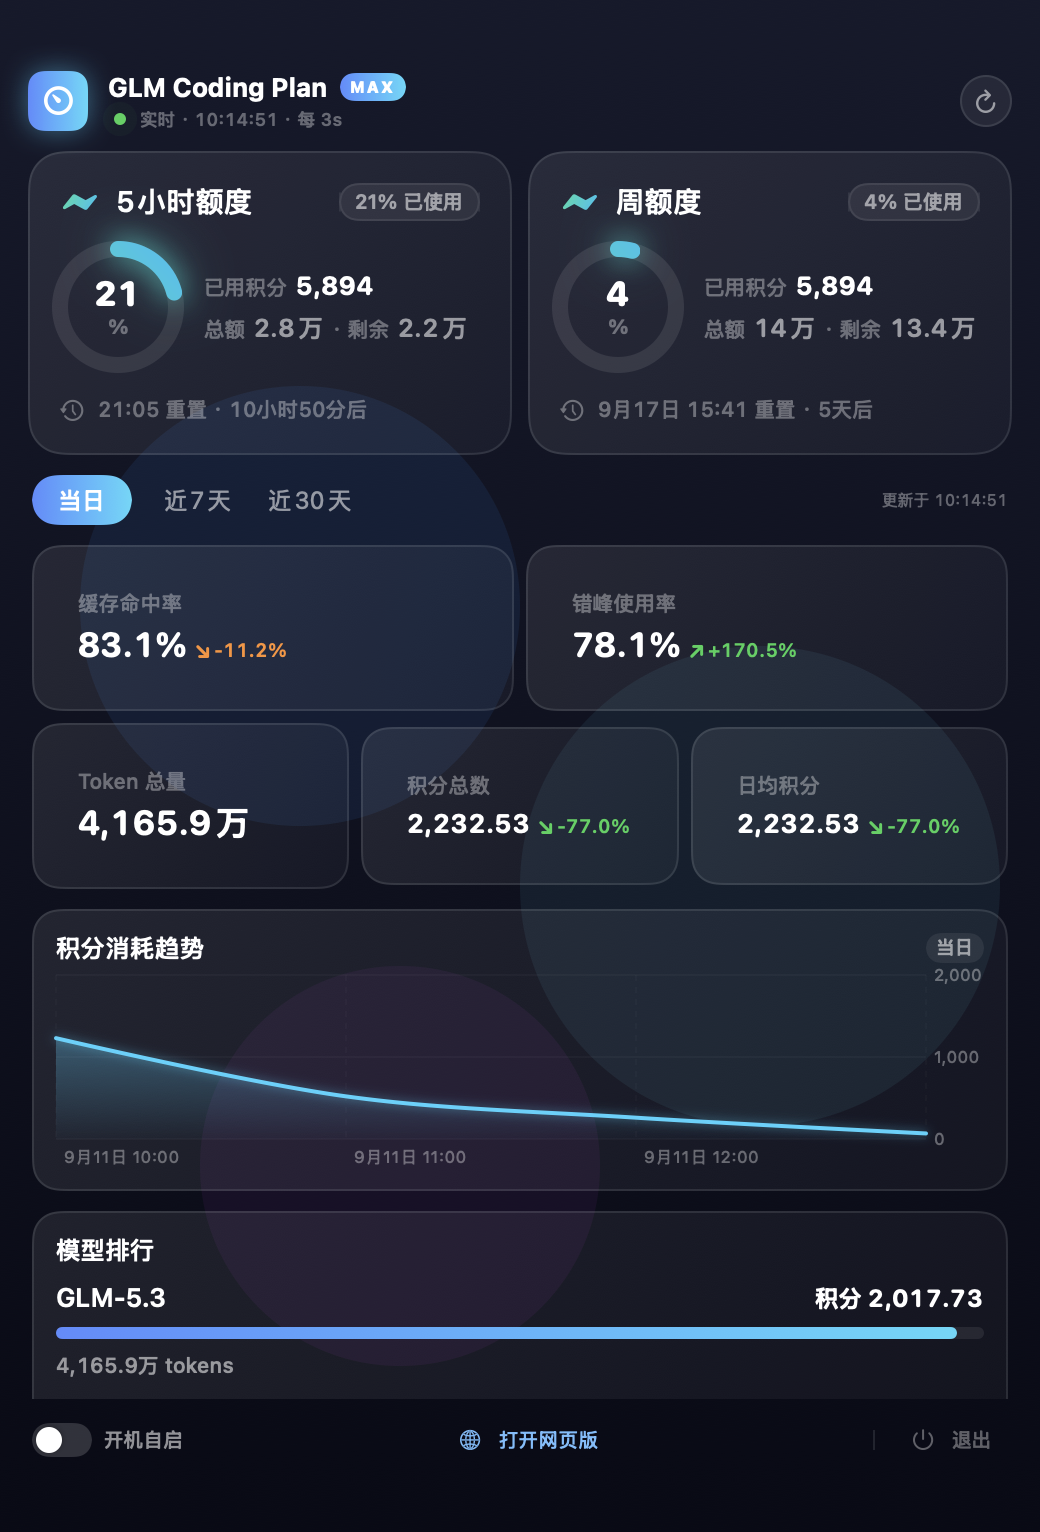
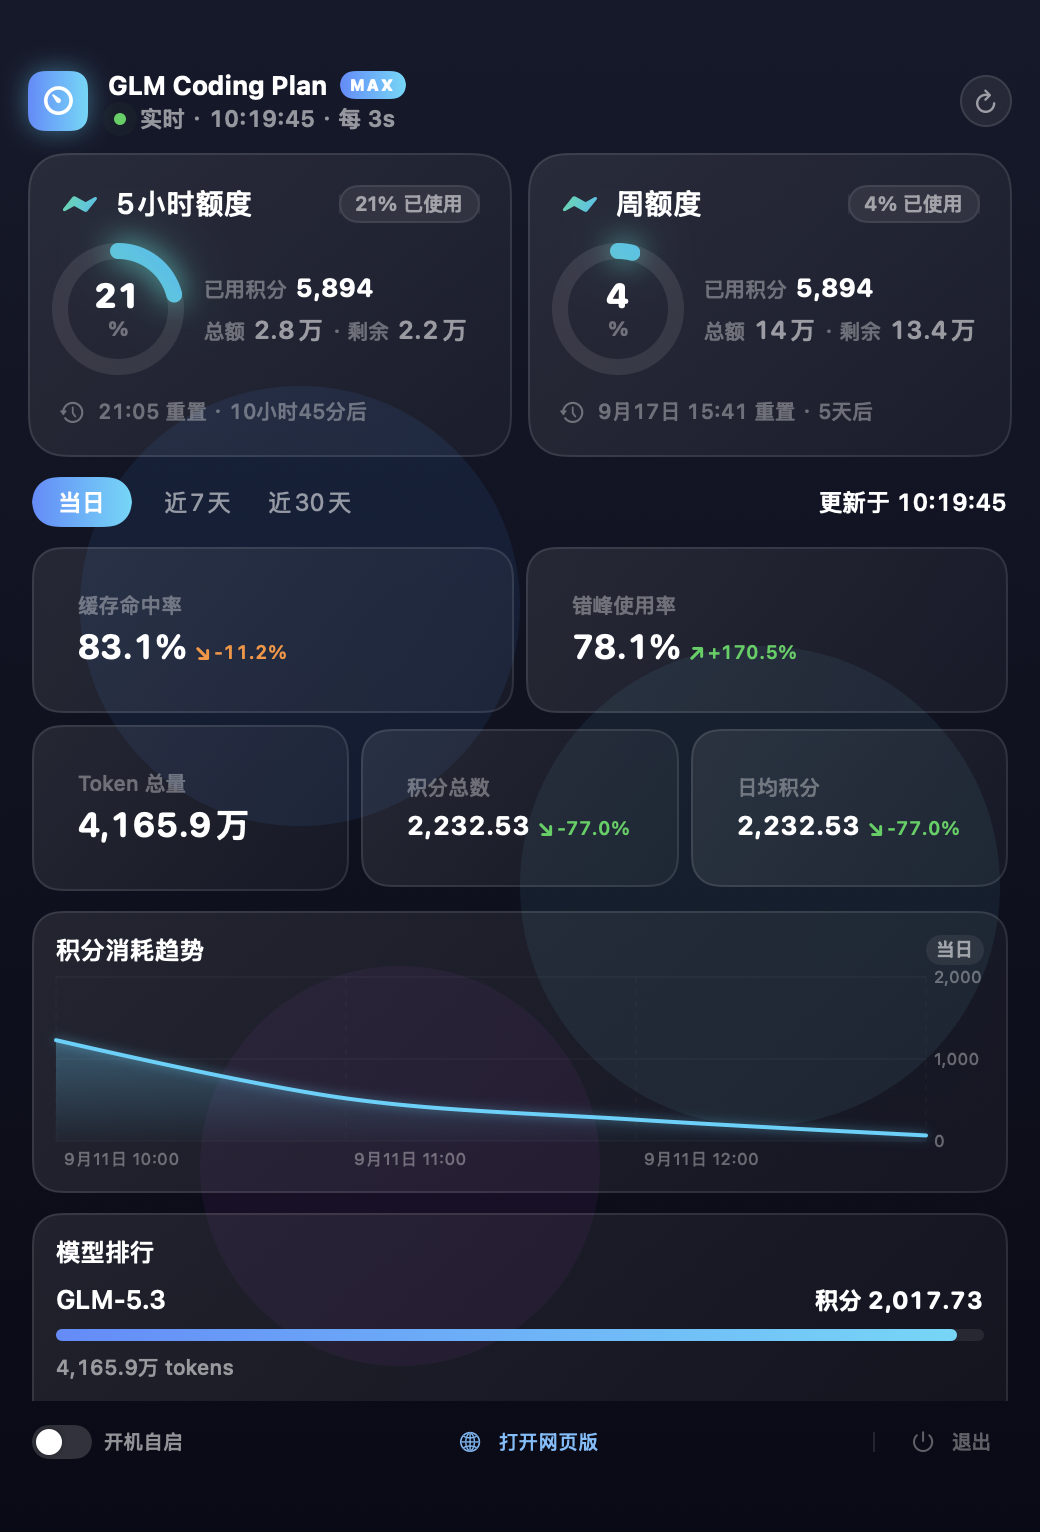
Bump time captions for readability (header 11.5pt, updated-at 12pt)

diff --git a/Sources/GLMStatusBar/UI/PanelView.swift b/Sources/GLMStatusBar/UI/PanelView.swift
@@ -70,8 +70,8 @@ struct PanelView: View {
                 HStack(spacing: 4) {
                     PulsingDot(color: statusColor)
                     Text(headerSubtitle)
-                        .font(.system(size: 9, weight: .medium))
-                        .foregroundStyle(Theme.textTertiary)
+                        .font(.system(size: 11.5, weight: .semibold))
+                        .foregroundStyle(Theme.textSecondary)
                         .monospacedDigit()
                 }
             }

diff --git a/Sources/GLMStatusBar/UI/UsageDashboard.swift b/Sources/GLMStatusBar/UI/UsageDashboard.swift
@@ -76,8 +76,8 @@ struct RangeSegmented: View {
 
             if let stats = statsForCaption {
                 Text("更新于 \(stats.fetchedAt.formatted(.dateTime.hour().minute().second()))")
-                    .font(.system(size: 8))
-                    .foregroundStyle(Theme.textTertiary)
+                    .font(.system(size: 12, weight: .semibold))
+                    .foregroundStyle(Theme.textPrimary)
                     .monospacedDigit()
             }
         }
